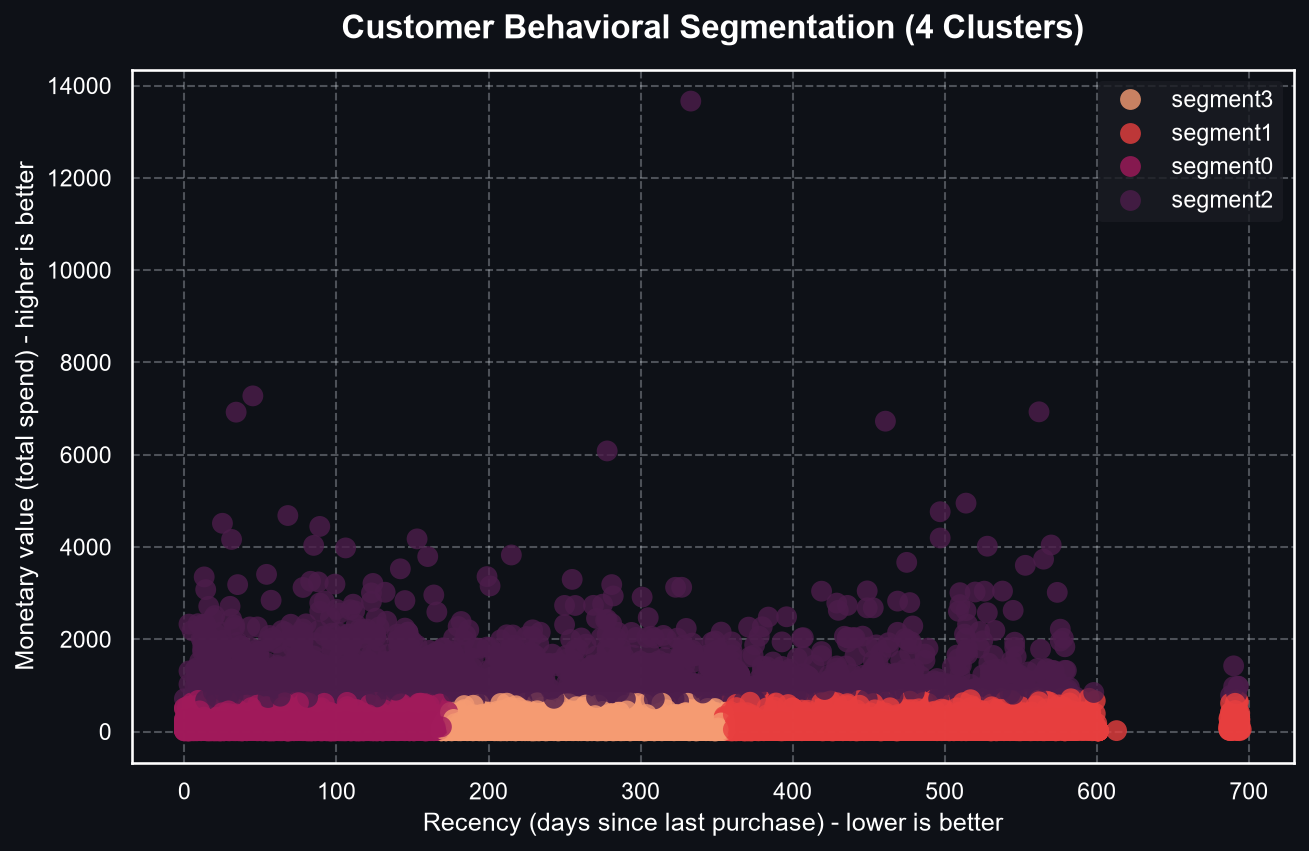
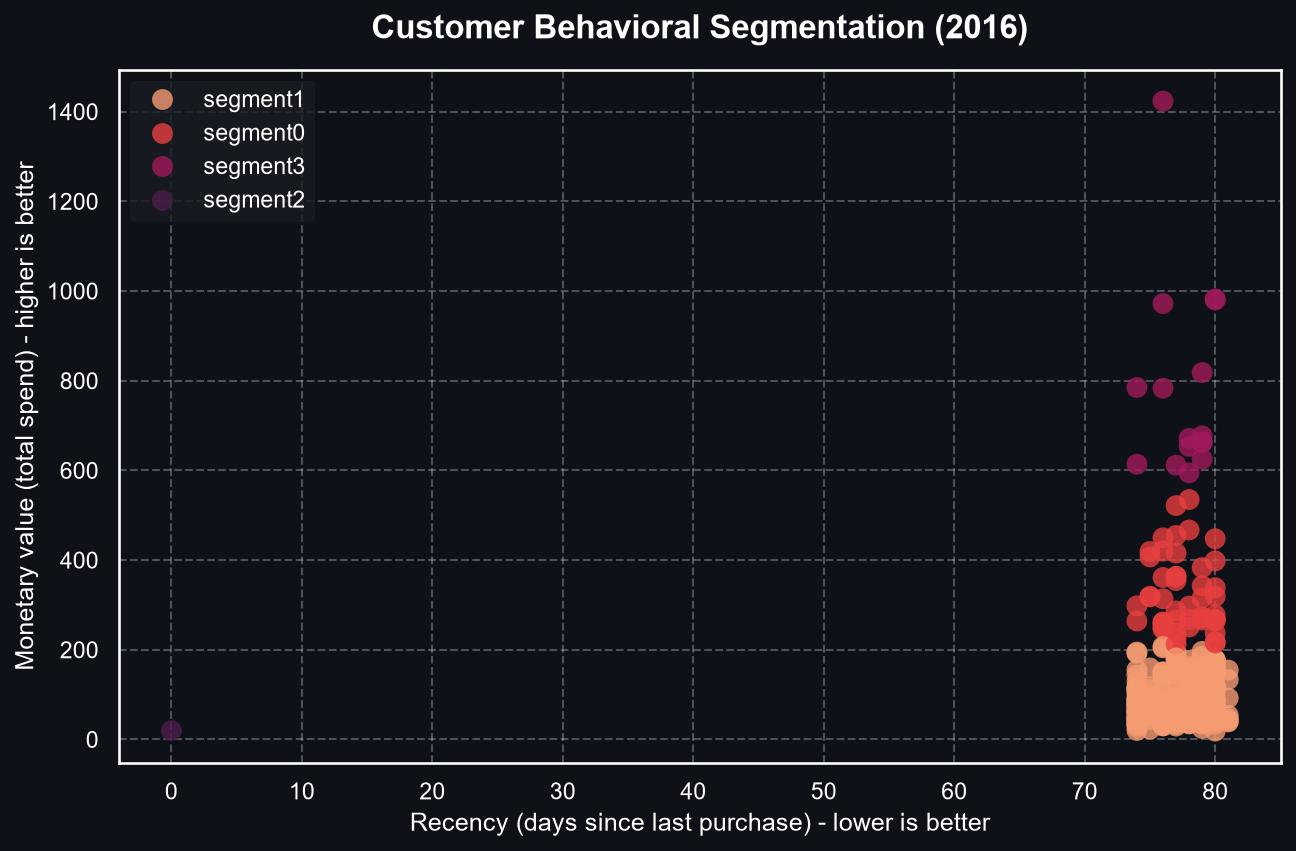
Enhance RFM clustering functionality to allow year-specific segmentation and improve UI text alignment

diff --git a/app.py b/app.py
@@ -25,9 +25,22 @@ st.markdown("""
         font-family: 'Inter', sans-serif;
     }
     
-    /* Ensure all text is white and aligned */
-    .stApp p, .stApp span, .stApp div, .stApp label, .stApp li {
+    /* Ensure text is white and centered */
+    .stApp p, .stApp h1, .stApp h2, .stApp h3, .stApp label, .stApp li {
         color: #ffffff !important;
+        text-align: center;
+    }
+    
+    .stApp span {
+        color: #ffffff !important;
+    }
+    
+    /* Fix Dropdown Text Color */
+    div[data-baseweb="select"] span {
+        color: #000000 !important;
+    }
+    div[data-baseweb="popover"] * {
+        color: #000000 !important;
     }
     
     /* Sleek Title Styling */
@@ -42,6 +55,7 @@ st.markdown("""
     /* Tabs Styling */
     .stTabs [data-baseweb="tab-list"] {
         gap: 20px;
+        justify-content: center;
     }
     .stTabs [data-baseweb="tab"] {
         height: 50px;
@@ -49,7 +63,7 @@ st.markdown("""
         background-color: #1a1c23;
         border-radius: 8px 8px 0px 0px;
         padding: 10px 20px;
-        color: #ffffff;
+        color: #ffffff !important;
     }
     .stTabs [aria-selected="true"] {
         background: linear-gradient(90deg, #1f2229 0%, #262932 100%);
@@ -63,6 +77,10 @@ st.markdown("""
         padding: 15px;
         margin-bottom: 10px;
         border: 1px solid #2d3748;
+        text-align: left; /* Keep chat messages left-aligned for readability */
+    }
+    [data-testid="stChatMessage"] p, [data-testid="stChatMessage"] div {
+        text-align: left !important;
     }
     
     /* Button Aesthetics */
@@ -70,12 +88,14 @@ st.markdown("""
         background: linear-gradient(135deg, #667eea 0%, #764ba2 100%);
         color: white !important;
         border: none;
-        border-radius: 8px;
-        padding: 10px 24px;
-        font-weight: 600;
+        border-radius: 6px;
+        padding: 6px 16px; /* Smaller button */
+        font-size: 14px;
+        font-weight: 500;
         transition: all 0.3s ease;
         box-shadow: 0 4px 6px rgba(0,0,0,0.2);
-        width: 100%;
+        display: block;
+        margin: 0 auto; /* Center button */
     }
     .stButton>button:hover {
         transform: translateY(-2px);
@@ -135,9 +155,9 @@ def generate_hourly_peak_chart() -> str:
     return f"Hourly peak chart generated successfully and saved to local file: {path}"
 
 @tool
-def segment_customers_rfm() -> str:
-    """Useful when the user asks to segment customers, find behavioral patterns, group high-value customers, or run RFM clustering algorithms."""
-    path = generate_rfm_cluster(n_clusters=4)
+def segment_customers_rfm(year: int) -> str:
+    """Useful when the user asks to segment customers, find behavioral patterns, group high-value customers, or run RFM clustering algorithms for a specific year."""
+    path = generate_rfm_cluster(n_clusters=4, year=year)
     return f"Machine learning clustering applied successfully. Scatter plot saved to local file: {path}"
 
 # 4. Initialize the AI Agent Engine
@@ -226,10 +246,12 @@ with tab3:
         st.markdown("### RFM Analysis Pipeline")
         st.markdown("Automatically segments your customer base based on their purchasing behavior (Recency, Frequency, Monetary value).")
         
+        selected_ml_year = st.selectbox("Select Year for Segmentation:", [2016, 2017, 2018], index=1)
+        
         if st.button("Run Segmentation Pipeline", key="btn_kmeans"):
-            with st.spinner("Analyzing customer behavior..."):
-                ml_img = generate_rfm_cluster(n_clusters=4)
-                st.image(ml_img, caption="Customer Segmentation Boundaries", use_container_width=True)
+            with st.spinner(f"Analyzing customer behavior for {selected_ml_year}..."):
+                ml_img = generate_rfm_cluster(n_clusters=4, year=selected_ml_year)
+                st.image(ml_img, caption=f"Customer Segmentation Boundaries ({selected_ml_year})", use_container_width=True)
                 
                 # Business summary for the CEO
                 st.info("""
@@ -239,4 +261,4 @@ with tab3:
                 - **At-Risk / Needs Attention:** Past customers who haven't purchased recently. Re-engage them with win-back campaigns.
                 - **New / Low-Value:** Recent or infrequent buyers with low spend. Focus on onboarding and nurturing.
                 """)
-                st.success("Customer profiles successfully grouped. Data segments are ready for tactical marketing exports.")
+                st.success(f"Customer profiles for {selected_ml_year} successfully grouped. Data segments are ready for tactical marketing exports.")

diff --git a/ml_cluster.py b/ml_cluster.py
@@ -8,12 +8,12 @@ import seaborn as sns
 def get_db_connection():
     return sqlite3.connect('olist.db')
 
-def generate_rfm_cluster(n_clusters=4):
+def generate_rfm_cluster(n_clusters=4, year=2017):
     """Calculates RFM metrics, applies K-Means clustering, and generates a scatter plot."""
     sns.set_theme(style="darkgrid")
     
     # 1. Extract raw data for RFM calculation
-    query = """
+    query = f"""
     SELECT 
         o.customer_id,
         MAX(o.order_purchase_timestamp) as last_purchase_date,
@@ -22,6 +22,7 @@ def generate_rfm_cluster(n_clusters=4):
     FROM orders o
     JOIN order_payments p ON o.order_id = p.order_id
     WHERE o.order_status = 'delivered'
+    AND strftime('%Y', o.order_purchase_timestamp) = '{year}'
     GROUP BY o.customer_id
     """
     with get_db_connection() as conn:
@@ -60,7 +61,7 @@ def generate_rfm_cluster(n_clusters=4):
         ax=ax
     )
     
-    ax.set_title(f"Customer Behavioral Segmentation ({n_clusters} Clusters)", fontsize=16, pad=15, color='white', fontweight='bold')
+    ax.set_title(f"Customer Behavioral Segmentation ({year})", fontsize=16, pad=15, color='white', fontweight='bold')
     ax.set_xlabel("Recency (days since last purchase) - lower is better", color='white', fontsize=12)
     ax.set_ylabel("Monetary value (total spend) - higher is better", color='white', fontsize=12)
     ax.tick_params(colors='white')